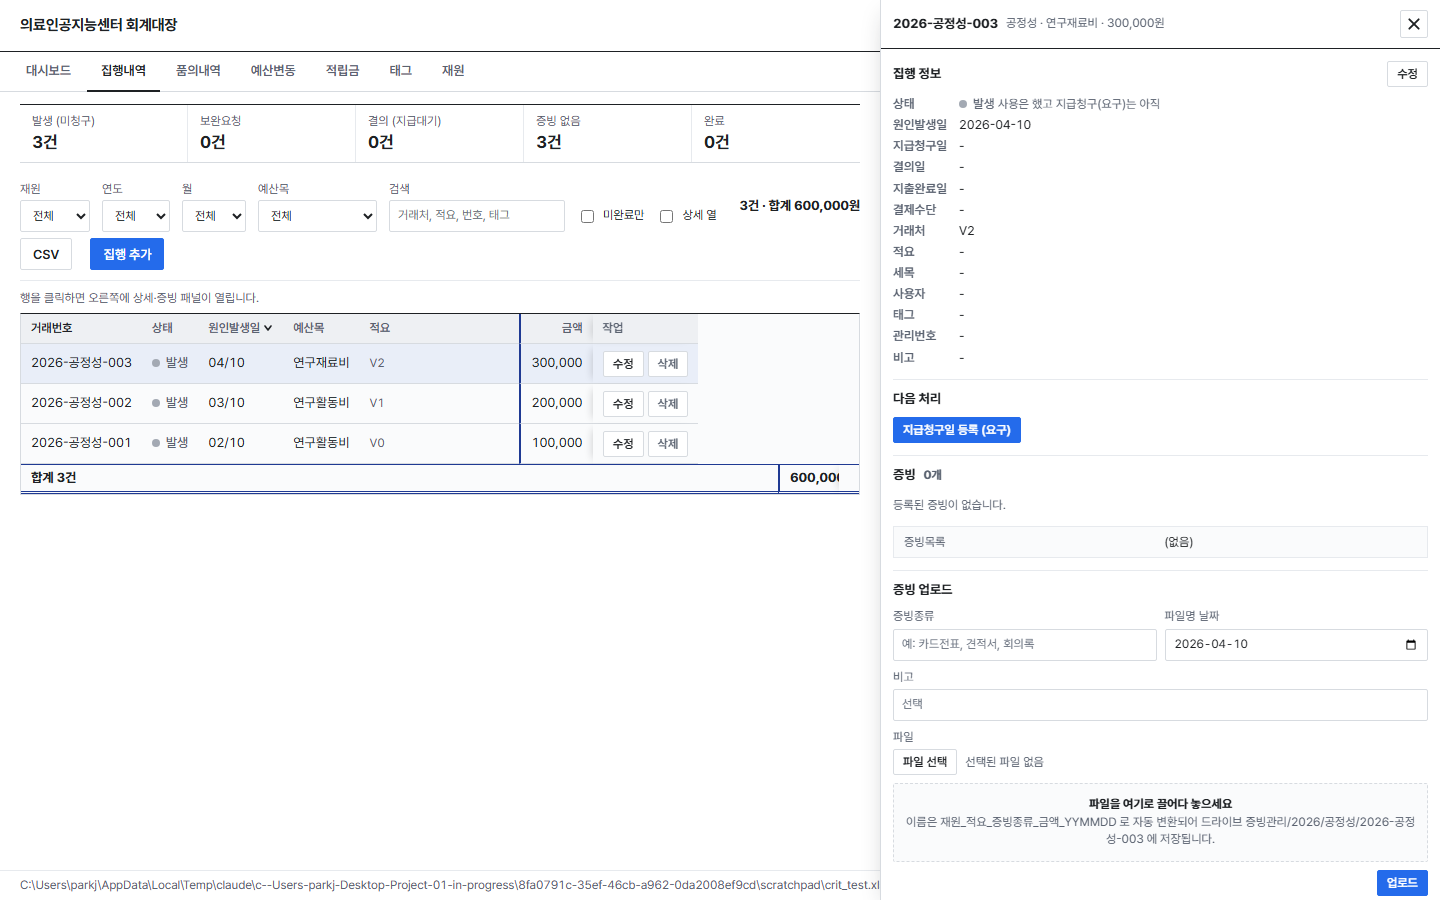
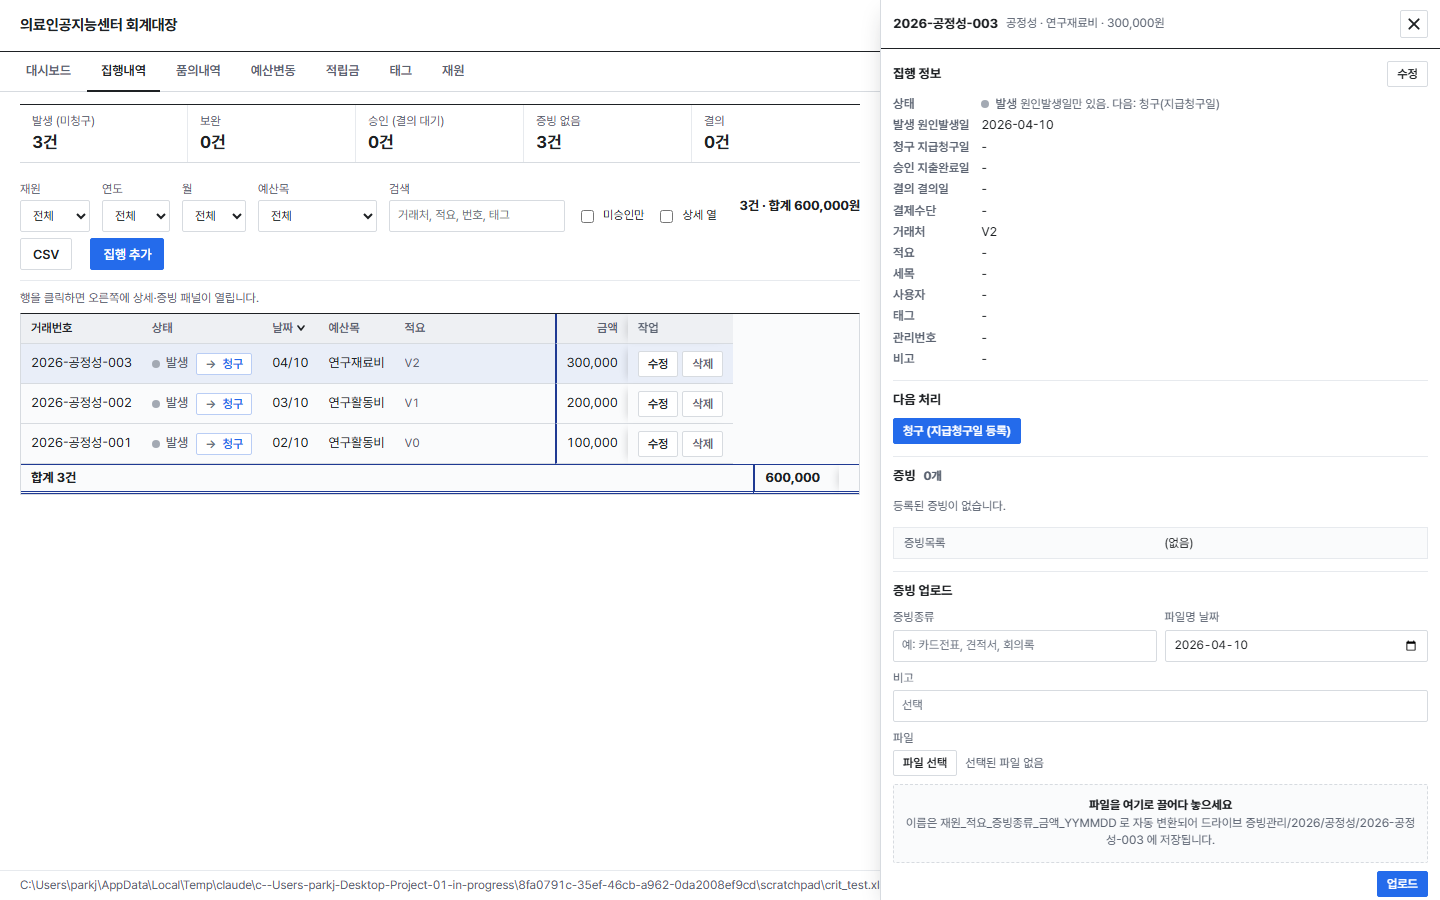
집행내역: 단계명 발생·청구·보완·승인·결의, 표 날짜는 원인발생일만, 다음 단계 버튼을 상태 칸으로

diff --git a/app/static/app.js b/app/static/app.js
@@ -12,8 +12,12 @@ const mmdd = d => (typeof d === "string" && /^\d{4}-\d{2}-\d{2}$/.test(d)) ? d.s
 // 행 식별값 (서버가 다른 창/MCP 에서 행이 밀렸는지 검사)
 const IDENT = { funds: ["재원코드"], exec: ["거래번호"], req: ["품의번호"], tags: ["태그명"], budget: ["재원", "변경회차", "신청일자"], deposit: ["일자", "거래처", "구분", "금액"] };
 const F = k => document.getElementById("f-" + k);
-const STATUS_LABEL = { 발생: "발생", 청구: "요구", 보완: "보완요청", 결의: "결의", 완료: "완료" };
-const STATUS_HELP = { 발생: "사용은 했고 지급청구(요구)는 아직", 청구: "지급청구일 등록됨, 지출완료 대기", 보완: "서류·증빙 보완이 필요하다고 표시한 건", 완료: "지출완료일 등록됨, 결의 대기", 결의: "결의일 등록됨 (마지막 단계)" };  // 폼 필드 (예산목 이름에 괄호·점이 있어 CSS 선택자 불가)
+// 단계 ↔ 날짜: 발생=원인발생일, 청구=지급청구일, (보완=수동 표시), 승인=지출완료일, 결의=결의일
+const STATUS_LABEL = { 발생: "발생", 청구: "청구", 보완: "보완", 완료: "승인", 결의: "결의" };
+const STATUS_HELP = { 발생: "원인발생일만 있음. 다음: 청구(지급청구일)", 청구: "지급청구일 등록됨. 다음: 승인(지출완료일)", 보완: "서류·증빙 보완이 필요하다고 표시한 건", 완료: "지출완료일 등록됨(승인). 다음: 결의(결의일)", 결의: "결의일 등록됨 (마지막 단계)" };
+// 상태 열의 다음 단계 버튼: [동작, 라벨, 설명]
+const NEXT_STEP = { 발생: ["claim", "청구", "지급청구일을 오늘로 등록"], 청구: ["complete", "승인", "지출완료일을 오늘로 등록"], 보완: ["complete", "승인", "지출완료일을 오늘로 등록 (보완 해제)"], 완료: ["resolve", "결의", "결의일을 오늘로 등록 (마지막 단계)"] };
+const DATE_STAGE = { 원인발생일: "발생", 지급청구일: "청구", 지출완료일: "승인", 결의일: "결의" };  // 폼 필드 (예산목 이름에 괄호·점이 있어 CSS 선택자 불가)
 const expectOf = (kind, r) => r ? Object.fromEntries((IDENT[kind] || []).map(c => [c, r[c]])) : undefined;
 
 let DATA = null;
@@ -22,8 +26,8 @@ const FILTERS = { exec: {}, req: {}, budget: {}, deposit: {} };
 // ---------- 열 정의 ----------
 const COLS = {
   exec: [
-    { k: "거래번호", w: 1 }, { k: "상태", t: "badge" }, { k: "관리번호", minor: true }, { k: "원인발생일", t: "date" }, { k: "지급청구일", t: "date" },
-    { k: "지출완료일", t: "date" }, { k: "결의일", t: "date" }, { k: "재원" }, { k: "예산목" }, { k: "세목" }, { k: "세세목", minor: true },
+    { k: "거래번호", w: 1 }, { k: "상태", t: "badge" }, { k: "관리번호", minor: true }, { k: "원인발생일", t: "date", label: "날짜" }, { k: "지급청구일", t: "date", hide: true },
+    { k: "지출완료일", t: "date", hide: true }, { k: "결의일", t: "date", hide: true }, { k: "재원" }, { k: "예산목" }, { k: "세목" }, { k: "세세목", minor: true },
     { k: "거래처", hide: true }, { k: "적요", t: "title", sub: "거래처" }, { k: "결제수단" }, { k: "금액", t: "num", amt: true }, { k: "예산목 잔액", t: "num", calc: r => availableBudget(r["재원"], r["예산목"]), title: "이 건의 재원·예산목 가용잔액 (예산현액 − 집행 − 품의대기)" }, { k: "사용자", minor: true }, { k: "태그" }, { k: "증빙", t: "num", calc: r => evidCount(r), title: "등록된 증빙 파일 수" }, { k: "비고", wrap: true, minor: true },
   ],
   req: [
@@ -55,7 +59,7 @@ function formFields(kind) {
   const items = DATA.meta.budget_items;
   // 실무 입력 순서: 날짜 → 재원 → 예산목 → 거래처 → 금액 → 적요 → 세목 → 태그 → (부가 정보)
   const common = [
-    { k: "원인발생일", type: "date", req: true },
+    { k: "원인발생일", type: "date", req: true, hint: "발생 단계 (표의 '날짜')" },
     { k: "재원", type: "select", opts: funds, req: true },
     { k: "예산목", type: "select", opts: items, req: true },
     { k: "거래처", type: "datalist", focus: true },
@@ -68,7 +72,7 @@ function formFields(kind) {
     { k: "거래번호", type: "ro" },
     ...common,
     { k: "결제수단", type: "select", opts: ["", ...DATA.meta.pay_methods] }, { k: "사용자", type: "datalist" }, { k: "관리번호", type: "text", hint: "ERP/전자결재 문서번호 (선택)" },
-    { k: "지급청구일", type: "date" }, { k: "지출완료일", type: "date", hint: "비우면 미완료" }, { k: "결의일", type: "date", hint: "마지막 단계" }, { k: "비고", type: "text" },
+    { k: "지급청구일", type: "date", hint: "청구 단계" }, { k: "지출완료일", type: "date", hint: "승인 단계, 비우면 미승인" }, { k: "결의일", type: "date", hint: "결의 단계 (마지막)" }, { k: "비고", type: "text" },
   ];
   if (kind === "req") return [
     { k: "품의번호", type: "ro" },
@@ -258,7 +262,7 @@ function renderList(kind) {
   table.classList.toggle("show-minor", showMinor);
   const minorCls = c => c.minor ? " col-minor" : "";
   const SORT_SVG = d => `<span class="sort-ind" aria-hidden="true"><svg viewBox="0 0 10 10"><path d="${d > 0 ? "M2 7l3-4 3 4" : "M2 3l3 4 3-4"}" fill="none" stroke="currentColor" stroke-width="1.6" stroke-linecap="round" stroke-linejoin="round"/></svg></span>`;
-  const head = `<thead><tr>${cols.map(c => `<th class="sortable${c.t === "num" ? " num" : ""}${c.amt ? " amt" : ""}${minorCls(c)}" data-col="${esc(c.k)}" data-sort="${esc(c.k)}" title="${esc(c.title || "클릭하여 정렬")}" aria-sort="${sort && sort.k === c.k ? (sort.dir > 0 ? "ascending" : "descending") : "none"}">${esc(c.k)}${sort && sort.k === c.k ? SORT_SVG(sort.dir) : ""}</th>`).join("")}<th class="actions">작업</th></tr></thead>`;
+  const head = `<thead><tr>${cols.map(c => `<th class="sortable${c.t === "num" ? " num" : ""}${c.amt ? " amt" : ""}${minorCls(c)}" data-col="${esc(c.k)}" data-sort="${esc(c.k)}" title="${esc(c.title || "클릭하여 정렬")}" aria-sort="${sort && sort.k === c.k ? (sort.dir > 0 ? "ascending" : "descending") : "none"}">${esc(c.label || c.k)}${sort && sort.k === c.k ? SORT_SVG(sort.dir) : ""}</th>`).join("")}<th class="actions">작업</th></tr></thead>`;
   const body = rows.length ? rows.map(r => {
     const tds = cols.map(c => {
       const v = c.calc ? c.calc(r) : r[c.k];
@@ -270,21 +274,13 @@ function renderList(kind) {
   function cellHtml(c, r, v) {
       if (c.t === "num") return `<td class="num${c.amt ? " amt" : ""}${minorCls(c)}${typeof v === "number" && v < 0 ? " neg" : ""}">${v == null ? '<span class="muted" title="예산 미등록 재원">-</span>' : fmt(v)}</td>`;
       if (c.t === "date" && v && (kind === "exec" || kind === "req" || kind === "budget" || kind === "deposit")) {
-        if (kind === "exec" && (c.k === "지급청구일" || c.k === "지출완료일") && !v) { /* 아래 등록 버튼 분기로 */ }
-        else return `<td title="${esc(v)}">${esc(mmdd(v))}</td>`;  // 내역 탭은 MM/DD, 전체 날짜는 툴팁
+        return `<td title="${esc(v)}">${esc(mmdd(v))}</td>`;  // 내역 탭은 MM/DD, 전체 날짜는 툴팁
       }
-      if (c.t === "badge") return `<td><span class="badge ${esc(v)}" title="${esc(STATUS_HELP[v] || "")}">${esc(STATUS_LABEL[v] || v)}</span></td>`;
+      if (c.t === "badge") {
+        const nx = kind === "exec" ? NEXT_STEP[v] : null;
+        return `<td class="st-cell"><span class="badge ${esc(v)}" title="${esc(STATUS_HELP[v] || "")}">${esc(STATUS_LABEL[v] || v)}</span>${nx ? `<button type="button" class="btn btn-inline next" data-act="xact" data-action="${nx[0]}" data-row="${r._row}" title="다음 단계: ${esc(nx[2])}">${esc(nx[1])}</button>` : ""}</td>`;
+      }
       if (c.t === "title") return `<td class="tit" title="${esc([v, r[c.sub]].filter(Boolean).join(" · "))}"><div class="t">${esc(v || "")}</div>${r[c.sub] ? `<div class="s">${esc(r[c.sub])}</div>` : ""}</td>`;
-      if (kind === "exec" && c.k === "결의일" && !v) {
-        return r["지출완료일"] ? `<td><button type="button" class="btn btn-inline" data-act="xact" data-action="resolve" data-row="${r._row}" title="오늘 날짜로 결의일 등록 (마지막 단계)">등록</button></td>` : `<td class="muted" title="지출완료 뒤에 등록">-</td>`;
-      }
-      if (kind === "exec" && (c.k === "지급청구일" || c.k === "지출완료일") && !v) {
-        if (c.k === "지급청구일") return r["지출완료일"] ? `<td title="완료된 건 (청구일 미기록)">-</td>` : `<td><button type="button" class="btn btn-inline" data-act="xact" data-action="claim" data-row="${r._row}" title="오늘 날짜로 지급청구일 등록 (요구)">등록</button></td>`;
-        const fix = r["지급청구일"] ? (r["상태"] === "보완"
-          ? `<button type="button" class="btn btn-inline" data-act="xact" data-action="unfix" data-row="${r._row}" title="보완 표시 해제">보완해제</button>`
-          : `<button type="button" class="btn btn-inline" data-act="xact" data-action="fix" data-row="${r._row}" title="보완 필요로 표시">보완</button>`) : "";
-        return `<td>${fix}<button type="button" class="btn btn-inline" data-act="xact" data-action="complete" data-row="${r._row}" title="오늘 날짜로 지출완료일 등록">등록</button></td>`;
-      }
       if (kind === "exec" && c.k === "거래번호") return `<td class="nowrap">${esc(v)}${originBadge(r)}</td>`;
       return `<td class="${c.wrap ? "wrap" : ""}${minorCls(c)}"${c.wrap && v ? ` title="${esc(v)}"` : ""}>${esc(v)}</td>`;
   }
@@ -1204,8 +1200,8 @@ function renderExecTiles() {
   const n = k => rows.filter(k).length;
   const tiles = [
     ["unclaimed", "발생 (미청구)", n(r => r["상태"] === "발생")],
-    ["fix", "보완요청", n(r => r["상태"] === "보완")],
-    ["done", "완료 (결의 대기)", n(r => r["상태"] === "완료")],
+    ["fix", "보완", n(r => r["상태"] === "보완")],
+    ["done", "승인 (결의 대기)", n(r => r["상태"] === "완료")],
     ["noevid", "증빙 없음", n(r => !hasEvidence(r))],
     ["resolved", "결의", n(r => r["상태"] === "결의")],
   ];
@@ -1217,8 +1213,8 @@ $$("[data-filter][data-kind=exec]").forEach(el => el.addEventListener("input", r
 
 async function execAction(row, action, btn) {
   const r = DATA.exec.find(x => x._row === row); if (!r) return;
-  const label = { claim: "지급청구일 등록", resolve: "결의일 등록", unresolve: "결의 취소", complete: "지출완료일 등록", fix: "보완요청 표시", unfix: "보완 해제", uncomplete: "완료 취소 (지출완료일 삭제)" }[action];
-  if (action === "uncomplete" && !await confirmDlg({ title: "완료 취소", body: `${r["거래번호"]} 의 지출완료일(${r["지출완료일"]})을 지우고 청구 상태로 되돌립니다.`, verb: "완료 취소", danger: true })) return;
+  const label = { claim: "청구 (지급청구일 등록)", resolve: "결의 (결의일 등록)", unresolve: "결의 취소", complete: "승인 (지출완료일 등록)", fix: "보완 표시", unfix: "보완 해제", uncomplete: "승인 취소 (지출완료일 삭제)" }[action];
+  if (action === "uncomplete" && !await confirmDlg({ title: "승인 취소", body: `${r["거래번호"]} 의 지출완료일(${r["지출완료일"]})을 지우고 청구 상태로 되돌립니다.`, verb: "승인 취소", danger: true })) return;
   if (btn) btn.disabled = true;
   try {
     await api("POST", `/api/exec/${row}/action`, { action, expect: expectOf("exec", r) });
@@ -1249,10 +1245,10 @@ async function renderExecDrawer(fetchEvid) {
   }
   const st = r["상태"];
   const acts = [];
-  if (st === "발생") acts.push(["claim", "지급청구일 등록 (요구)", true]);
-  if (st === "청구") { acts.push(["complete", "지출완료 등록 (오늘)", true]); acts.push(["fix", "보완요청으로 표시", false]); }
-  if (st === "보완") { acts.push(["complete", "지출완료 등록 (오늘)", true]); acts.push(["unfix", "보완 해제", false]); }
-  if (st === "완료") { acts.push(["resolve", "결의일 등록 (오늘)", true]); acts.push(["uncomplete", "완료 취소", false]); }
+  if (st === "발생") acts.push(["claim", "청구 (지급청구일 등록)", true]);
+  if (st === "청구") { acts.push(["complete", "승인 (지출완료일 등록)", true]); acts.push(["fix", "보완 표시", false]); }
+  if (st === "보완") { acts.push(["complete", "승인 (지출완료일 등록)", true]); acts.push(["unfix", "보완 해제", false]); }
+  if (st === "완료") { acts.push(["resolve", "결의 (결의일 등록)", true]); acts.push(["uncomplete", "승인 취소", false]); }
   if (st === "결의") { acts.push(["unresolve", "결의 취소", false]); }
   const evid = XD.evid || [];
   const kinds = [...new Set(evid.map(e => e["증빙종류"]).filter(Boolean))];
@@ -1262,10 +1258,10 @@ async function renderExecDrawer(fetchEvid) {
       <h3>집행 정보 <span class="sp"></span><button type="button" class="btn btn-sm" data-act="edit" data-kind="exec" data-row="${r._row}">수정</button></h3>
       <div class="kv">
         <b>상태</b><span><span class="badge ${esc(st)}">${esc(STATUS_LABEL[st] || st)}</span> <span class="toolbar-note">${esc(STATUS_HELP[st] || "")}</span></span>
-        <b>원인발생일</b><span>${esc(r["원인발생일"] || "-")}</span>
-        <b>지급청구일</b><span>${esc(r["지급청구일"] || "-")}</span>
-        <b>지출완료일</b><span>${esc(r["지출완료일"] || "-")}</span>
-        <b>결의일</b><span>${esc(r["결의일"] || "-")}</span>
+        <b>발생 <small>원인발생일</small></b><span>${esc(r["원인발생일"] || "-")}</span>
+        <b>청구 <small>지급청구일</small></b><span>${esc(r["지급청구일"] || "-")}</span>
+        <b>승인 <small>지출완료일</small></b><span>${esc(r["지출완료일"] || "-")}</span>
+        <b>결의 <small>결의일</small></b><span>${esc(r["결의일"] || "-")}</span>
         <b>결제수단</b><span>${esc(r["결제수단"] || "-")}</span>
         <b>거래처</b><span>${esc(r["거래처"] || "-")}</span>
         <b>적요</b><span>${esc(r["적요"] || "-")}</span>

diff --git a/app/static/index.html b/app/static/index.html
@@ -165,7 +165,7 @@
       <label>월 <select data-filter="month" data-kind="exec"><option value="">전체</option></select></label>
       <label>예산목 <select data-filter="예산목" data-kind="exec"><option value="">전체</option></select></label>
       <label>검색 <input type="search" data-filter="q" data-kind="exec" placeholder="거래처, 적요, 번호, 태그"></label>
-      <label class="chk"><input type="checkbox" data-filter="unpaid" data-kind="exec"> 미완료만</label>
+      <label class="chk"><input type="checkbox" data-filter="unpaid" data-kind="exec"> 미승인만</label>
       <label class="chk" title="관리번호·세세목·사용자·비고 열 표시"><input type="checkbox" id="exec-cols-all"> 상세 열</label>
       <span class="toolbar-sum" id="exec-sum"></span>
       <button type="button" class="btn" data-csv="exec" title="현재 필터의 목록을 CSV로 저장">CSV</button>

diff --git a/app/static/style.css b/app/static/style.css
@@ -412,3 +412,9 @@ table.grid td.tit .s { font-size: 12px; color: var(--ink-2); white-space: nowrap
 table.grid td.tit:hover .t, table.grid td.tit:hover .s { white-space: normal; }
 .badge.결의::before { background: var(--margin); } .badge.결의 { color: var(--margin); }
 body.drawer-open #exec-table [data-col="결의일"], body.drawer-open #exec-table [data-col="결제수단"] { display: none; }
+
+/* 상태 열: 배지 + 다음 단계 버튼 */
+table.grid td.st-cell { white-space: nowrap; }
+table.grid td.st-cell .btn.next { margin-left: 8px; padding: 0 8px; min-height: 22px; font-size: 12px; color: var(--primary); border-color: #B9CDF5; }
+table.grid td.st-cell .btn.next::before { content: "→ "; color: var(--ink-3); }
+table.grid td.st-cell .btn.next:hover { background: var(--primary-bg); border-color: var(--primary); }

diff --git a/app/README.md b/app/README.md
@@ -46,9 +46,9 @@
 
 ### 집행내역 탭
 
-- **상태** 열: 발생(지급청구일 없음) → 요구(지급청구일) → 보완요청(직접 표시) → 완료(지출완료일) → 결의(결의일, 마지막 단계). 날짜가 우선이며 '보완요청'만 수동입니다. 표의 빈 날짜 칸에 있는 [등록] 버튼이 오늘 날짜를 넣어 한 단계씩 넘기고(결의일은 지출완료 뒤에만), 상세 패널의 '다음 처리'에서 되돌릴 수 있습니다. 결의를 바로 등록하면 비어 있는 청구일·완료일도 같은 날짜로 채워집니다.
+- **상태** 열: 발생(원인발생일) → 청구(지급청구일) → 보완(직접 표시) → 승인(지출완료일) → 결의(결의일, 마지막). 날짜가 우선이며 '보완'만 수동입니다. 표에는 원인발생일만 '날짜'로 보이고 나머지 날짜는 행을 클릭한 상세 패널에서 봅니다. 상태 칸의 [→ 청구] [→ 승인] [→ 결의] 버튼이 오늘 날짜로 다음 단계를 등록하고, 되돌리기와 보완 표시는 상세 패널의 '다음 처리'에서 합니다. 결의를 바로 등록하면 비어 있는 청구일·완료일도 같은 날짜로 채워집니다.
 - 표의 버튼: 지급청구일 칸 **[청구일=오늘]**, 지출완료일 칸 **[보완]/[보완해제]**, **[완료일=오늘]**. 완료된 건에는 청구 버튼이 보이지 않습니다. 완료를 취소하려면 행을 클릭해 상세 패널의 **[완료 취소]**.
-- 상단 타일(발생·보완요청·완료·증빙 없음·결의)을 누르면 해당 건만 필터됩니다.
+- 상단 타일(발생·보완·승인·증빙 없음·결의)을 누르면 해당 건만 필터됩니다.
 - 적요 칸 아래에 거래처가 작은 글자로 붙고(ref 집행현황 구조), 결제수단 열은 품의와 같은 목록(연구비카드·계좌이체·연구자선지출·공금통장·적립금·기타)을 씁니다. 품의→집행 전환 시 결제수단이 넘어오고, 인건비 확정 집행은 계좌이체, 청구일·완료일·결의일=지급일로 기록됩니다.
 - 열 머리글을 누르면 정렬됩니다. 검색은 쉼표를 무시합니다(150,000 = 150000). "상세 열"을 켜면 관리번호·세세목·사용자·비고 열이 보입니다. 작업 열은 오른쪽에 고정되어 가로 스크롤을 해도 보입니다.
 - 행을 클릭하면 오른쪽 상세 패널이 열립니다(정보 요약·수정, 다음 처리, 증빙). Esc나 다른 탭으로 이동하면 닫힙니다.
